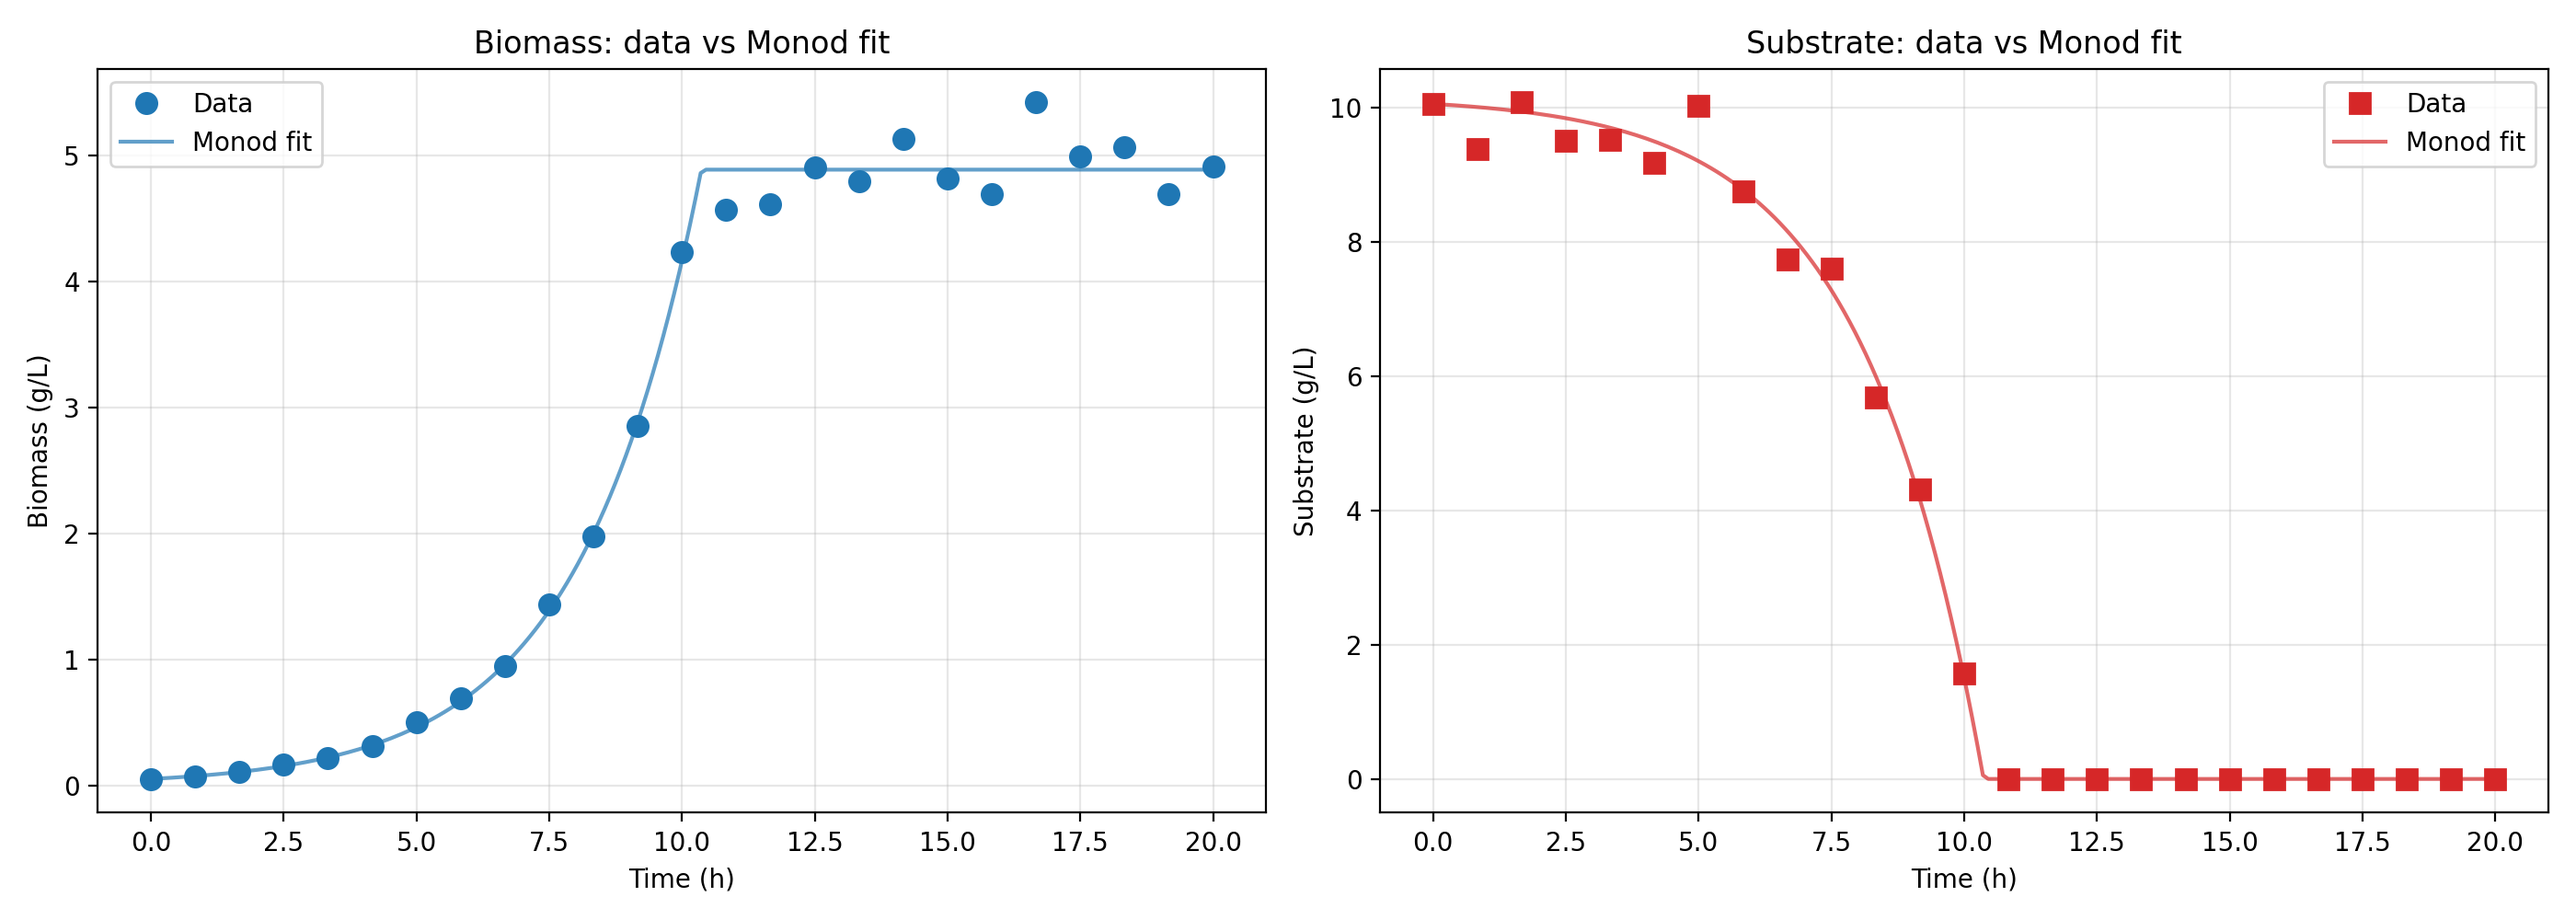
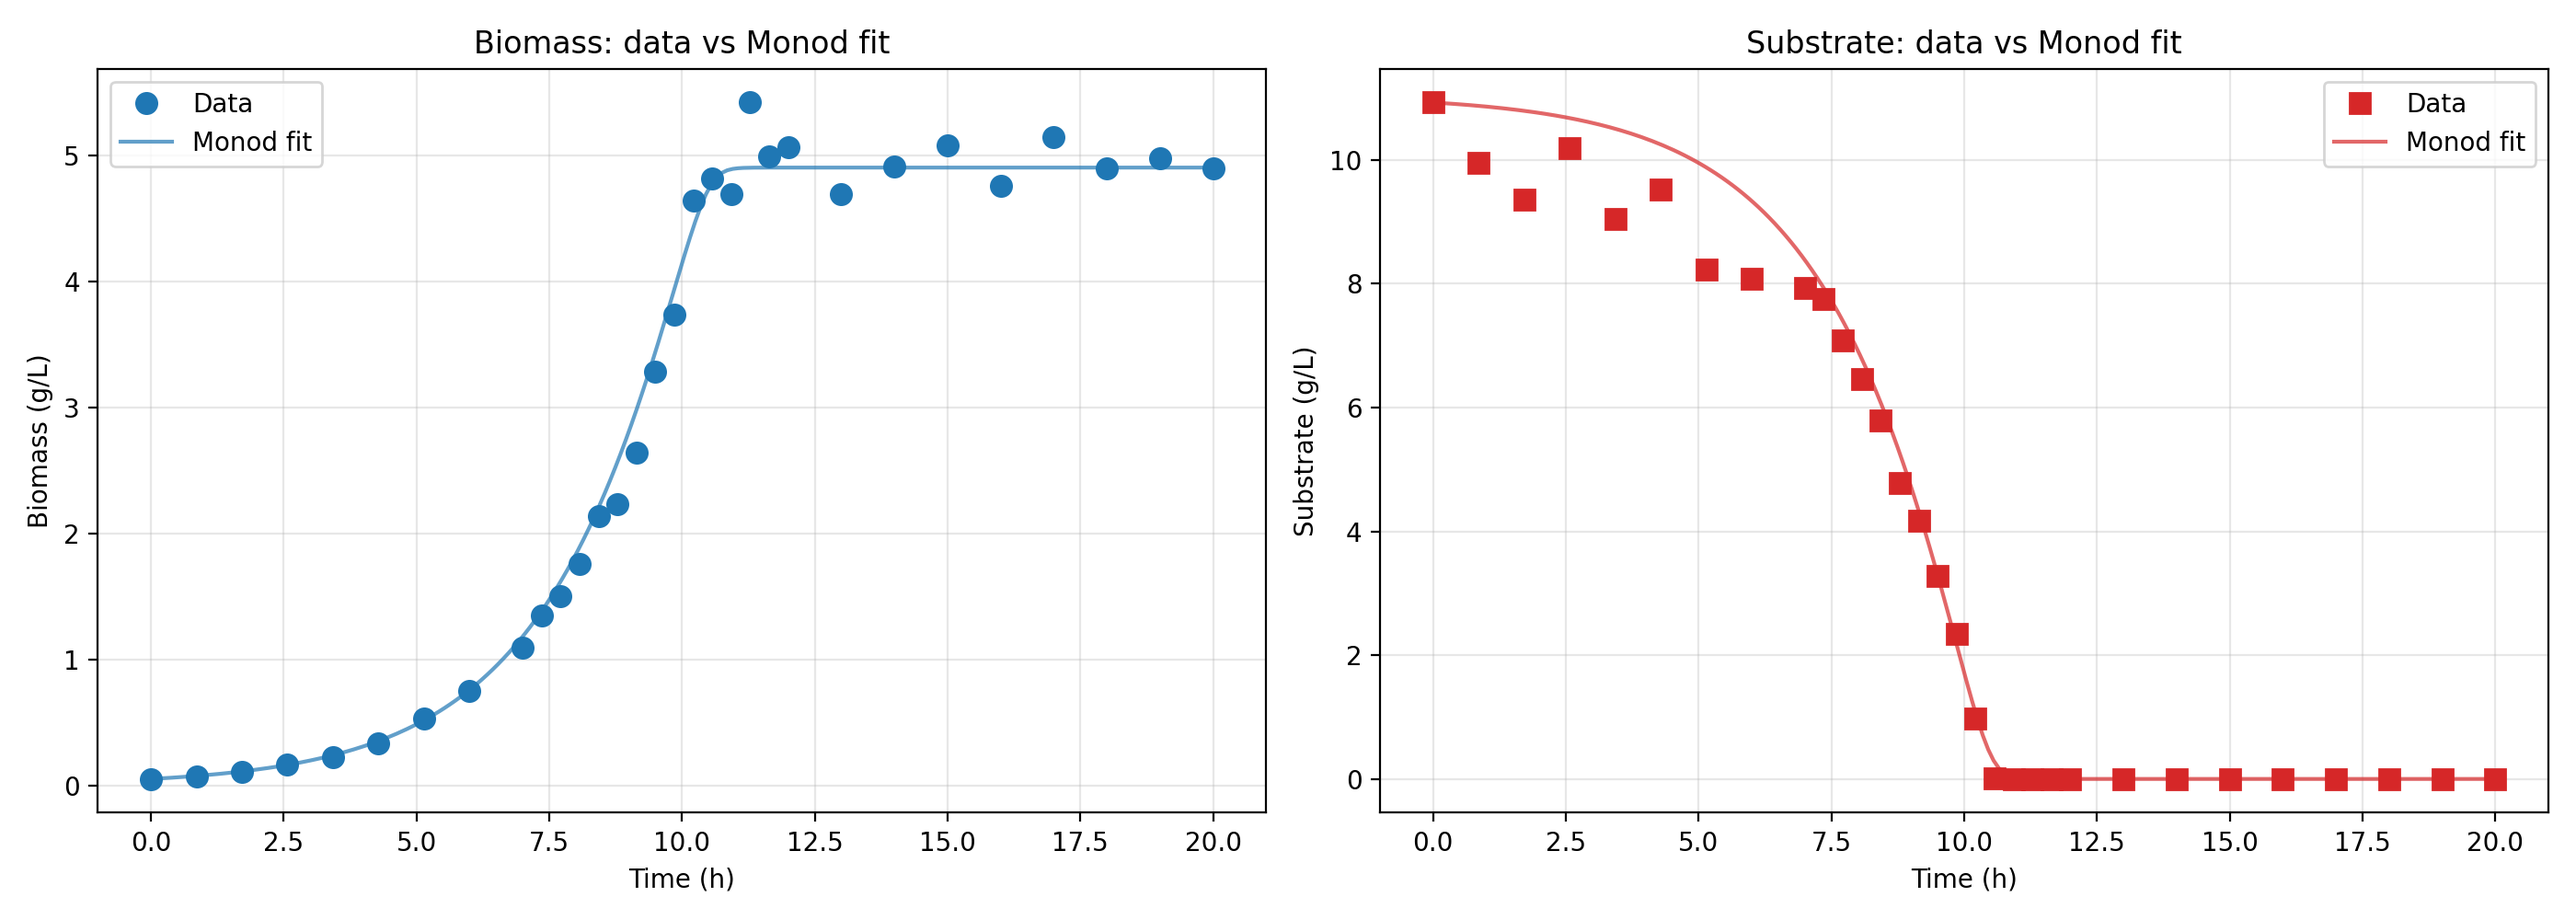
Add AIC-based model comparison

diff --git a/src/generate_data.py b/src/generate_data.py
@@ -20,7 +20,11 @@ def monod_ode(t, y, mu_max, Ks, Yxs):
 
 # Solve forward in time
 t_span = (0, 20)
-t_eval = np.linspace(0, 20, 25)
+# t_eval = np.linspace(0, 20, 25)
+t_early = np.linspace(0, 6, 8)   # lag and early exponential
+t_transition = np.linspace(7, 12, 15)  # dense around depletion (KEY)
+t_late = np.linspace(13, 20, 8)    # stationary
+t_eval = np.concatenate([t_early, t_transition, t_late])
 sol = solve_ivp(monod_ode, t_span, [X0, S0],
                 args=(mu_max_true, Ks_true, Yxs_true),
                 t_eval=t_eval, dense_output=True)
